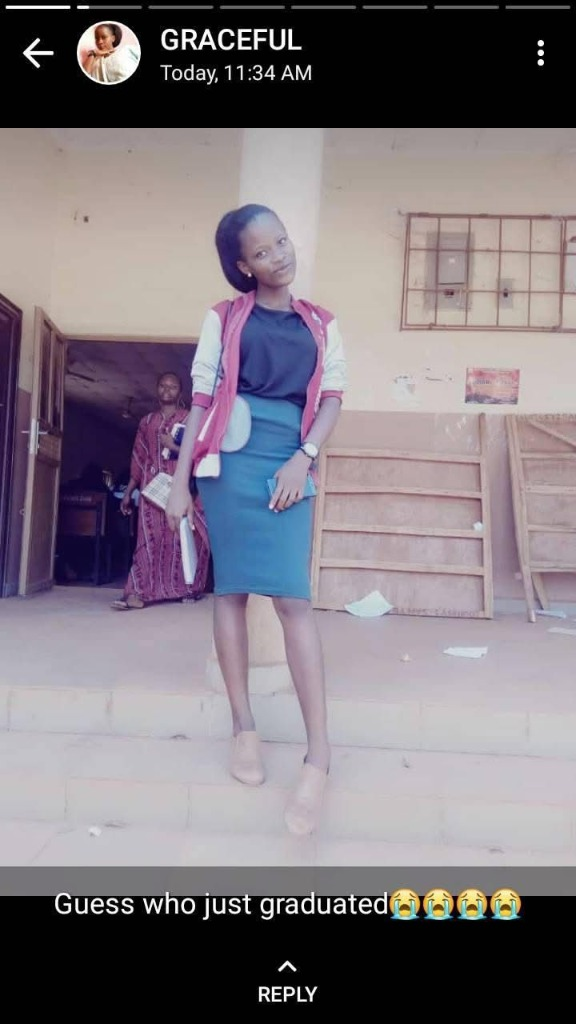
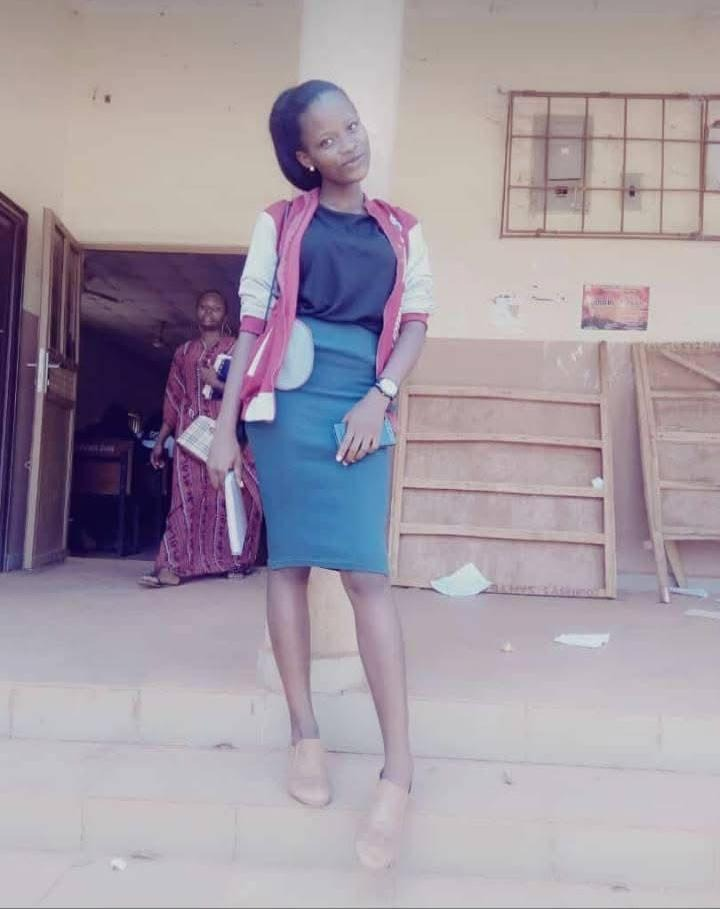
feat: update tagline and metadata to reflect contemporary publishing standard

diff --git a/apps/frontend/index.html b/apps/frontend/index.html
@@ -9,7 +9,7 @@
     <link rel="icon" type="image/jpeg" href="/favicon.jpeg" />
 
     <meta property="og:title" content="Eyelight Publishing — We Help You Get It Right" />
-    <meta property="og:description" content="Professional ghostwriting, editing, and publishing services for serious authors. Your voice, done right." />
+    <meta property="og:description" content="Professional ghostwriting, editing, and publishing services for serious authors. ...a higher standard of contemporary publishing." />
     <meta property="og:type" content="website" />
 
     <meta name="twitter:card" content="summary_large_image" />

diff --git a/apps/frontend/src/components/Hero.tsx b/apps/frontend/src/components/Hero.tsx
@@ -145,7 +145,7 @@ const Hero = () => {
                     <span className="animate-ping absolute inline-flex h-full w-full rounded-full bg-accent opacity-75"></span>
                     <span className="relative inline-flex rounded-full h-3 w-3 bg-accent"></span>
                   </span>
-                  Your Voice, Done Right
+                  ...a higher standard of contemporary publishing.
                 </div>
               </motion.div>
             </div>
